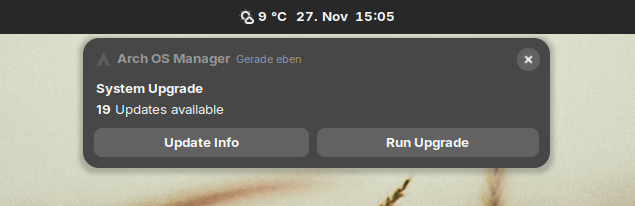
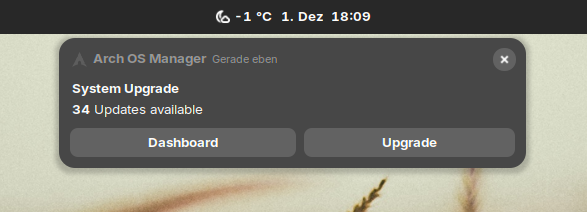
1.7.0
* Usability & robustness
* Better checks
* Enhanced config entries
* Enhanced dashboard
* Enhanced packages view
* Cleanup & docs

Changed region(s): [[0.0, 0.1456, 1.0, 1.0], [0.368, 0.0291, 0.644, 0.1165]]

diff --git a/docs/README.md b/docs/README.md
@@ -105,7 +105,6 @@ config           ➜  Edit config in built-in ediitor
 check            ➜  Print package updates (checkupdates)
 notify           ➜  Notify on new package updates (autostart)
 dashboard        ➜  Show dashboard (logs, services, health)
-info             ➜  Show system update info (without database sync)
 upgrade          ➜  System upgrade (news, health, pacman, aur, flatpak)
 pkg              ➜  Search & manage packages (pacman, aur)
 orphans          ➜  Remove orphaned packages (pacman, aur, flatpak)
@@ -140,21 +139,23 @@ Paru is preconfigured in `/etc/paru.conf`. Old configurations are copied to `/et
 Edit the settings with the built-in editor in Arch OS Manager or edit the config file manually.
 
 ```
-ARCH_UPGRADE_CONFIRM=true         # Enable confirm upgrade system packages (disable: false)
-ARCH_DOWNLOAD_TIMEOUT=false       # Disable pacman/paru download timeout (enable: true)
-AUR_MANAGER_REPO=paru             # Set AUR manager package for --install (paru, paru-bin, paru-git)
-AUR_SUPPORT=true                  # Enable AUR support (disable: false)
-AUR_REVIEW=false                  # Disable AUR review (enable: true)
-FLATPAK_SUPPORT=true              # Enable flatpak support (disable: false)
-FLATPAK_UPGRADE_CONFIRM=false     # Disable confirm flatpak upgrade (enable: true)
-ORPHANS_CONFIRM=false             # Disable confirm remove orphans (enable: true)
-AUTOSTART_NOTIFY=true             # Enable update notify on system boot (disable: false)
-AUTOSTART_DELAY=30                # Delay update check after boot in seconds (min: 10)
-NEWS_QUANTITY=3                   # Number of news to shown (disable: 0)
-SHOW_SYSTEM_LOG=true              # Show system log in dashboard & health (disable: false)
-SHOW_SERVICE_LIST=true            # Show running services in dashboard (disable: false)
-SHOW_UNKNOWN_PKG_LIST=false       # Show unknown package counter instead of name list (enable: true)
-SHOW_USER_SERVICES=false          # Show user services in dashboard & health (enable: true)
+ARCH_UPGRADE_CONFIRM=true             # Enable confirm upgrade system packages (disable (experimentell): false)
+ARCH_DOWNLOAD_TIMEOUT=false           # Disable pacman/paru download timeout (enable: true)
+AUR_MANAGER_REPO=paru                 # Set AUR manager package for --install (paru, paru-bin, paru-git)
+AUR_SUPPORT=true                      # Enable AUR support (disable: false)
+AUR_REVIEW=false                      # Disable AUR review (enable: true)
+FLATPAK_SUPPORT=true                  # Enable flatpak support (disable: false)
+FLATPAK_UPGRADE_CONFIRM=false         # Disable confirm flatpak upgrade (enable: true)
+ORPHANS_CONFIRM=false                 # Disable confirm remove orphans (enable: true)
+AUTOSTART_NOTIFY=true                 # Enable update notify on system boot (disable: false)
+AUTOSTART_DELAY=30                    # Delay update check after boot in seconds (min: 10)
+NEWS_QUANTITY=3                       # Number of news to shown (disable: 0)
+UPGRADE_SHOW_HEALTH=false             # Show health view in upgrade (enable: true)
+HEALTH_ENABLE_UNKNOWN_PKG_LIST=false  # Show unknown package counter instead of name list (enable: true)
+HEALTH_SHOW_LOG=true                  # Show system log in healt (disable: false)
+DASHBOARD_SHOW_LOG=true               # Show system log in dashboard & health (disable: false)
+DASHBOARD_SHOW_SERVICES=true          # Show running services in dashboard (disable: false)
+DASHBOARD_SHOW_USER_SERVICES=false    # Show user services in dashboard & health (enable: true)
 ```
 
 ### Configurations
